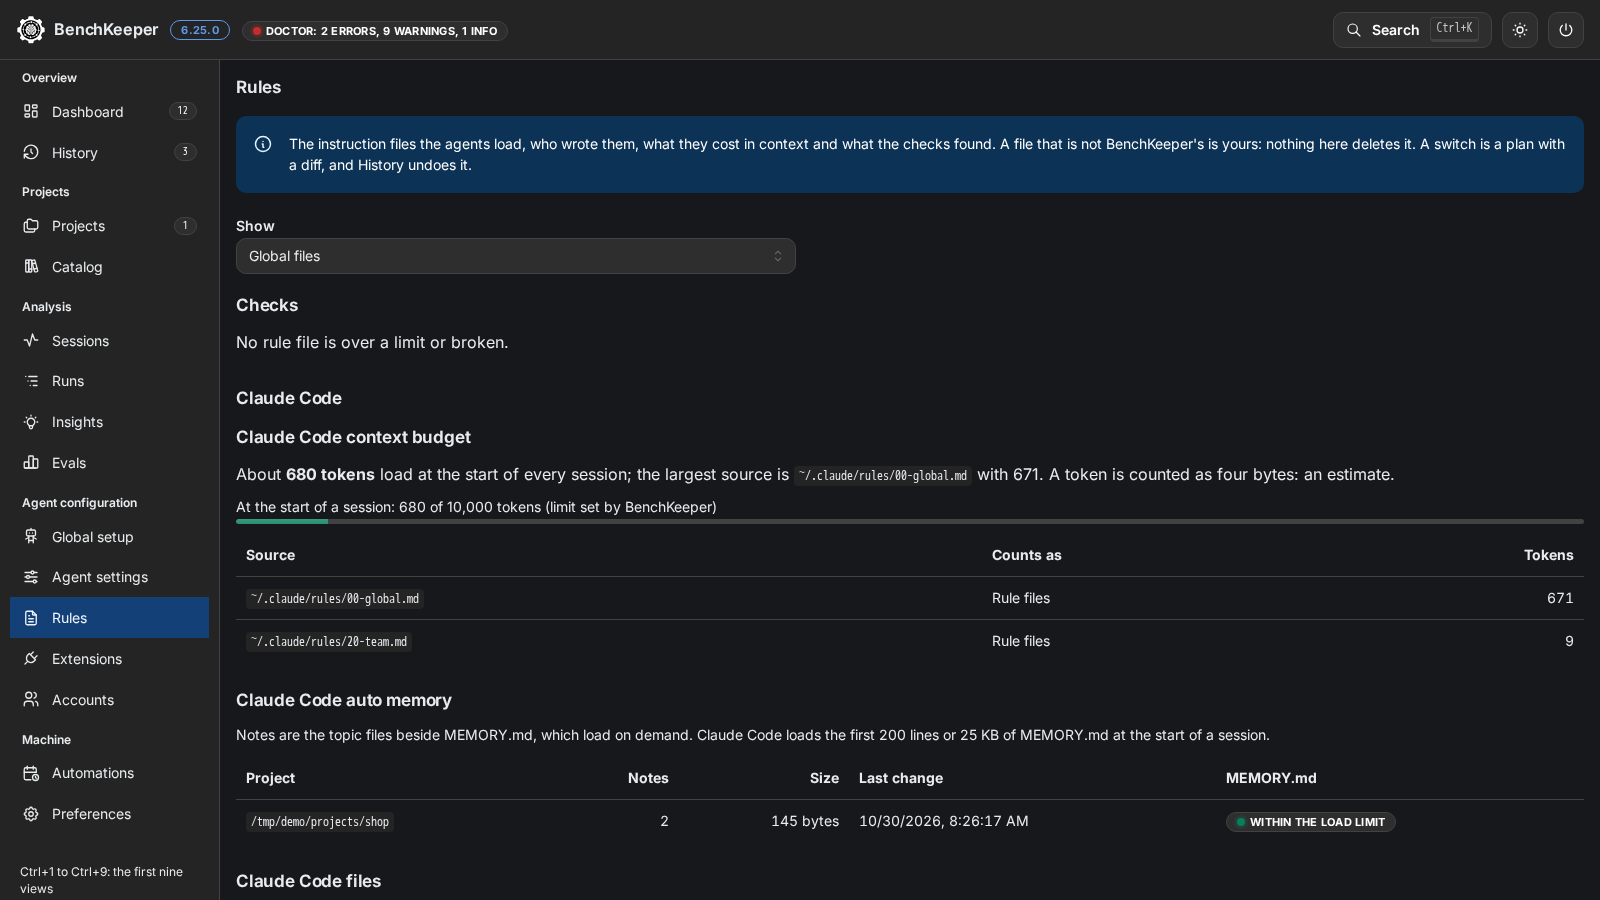
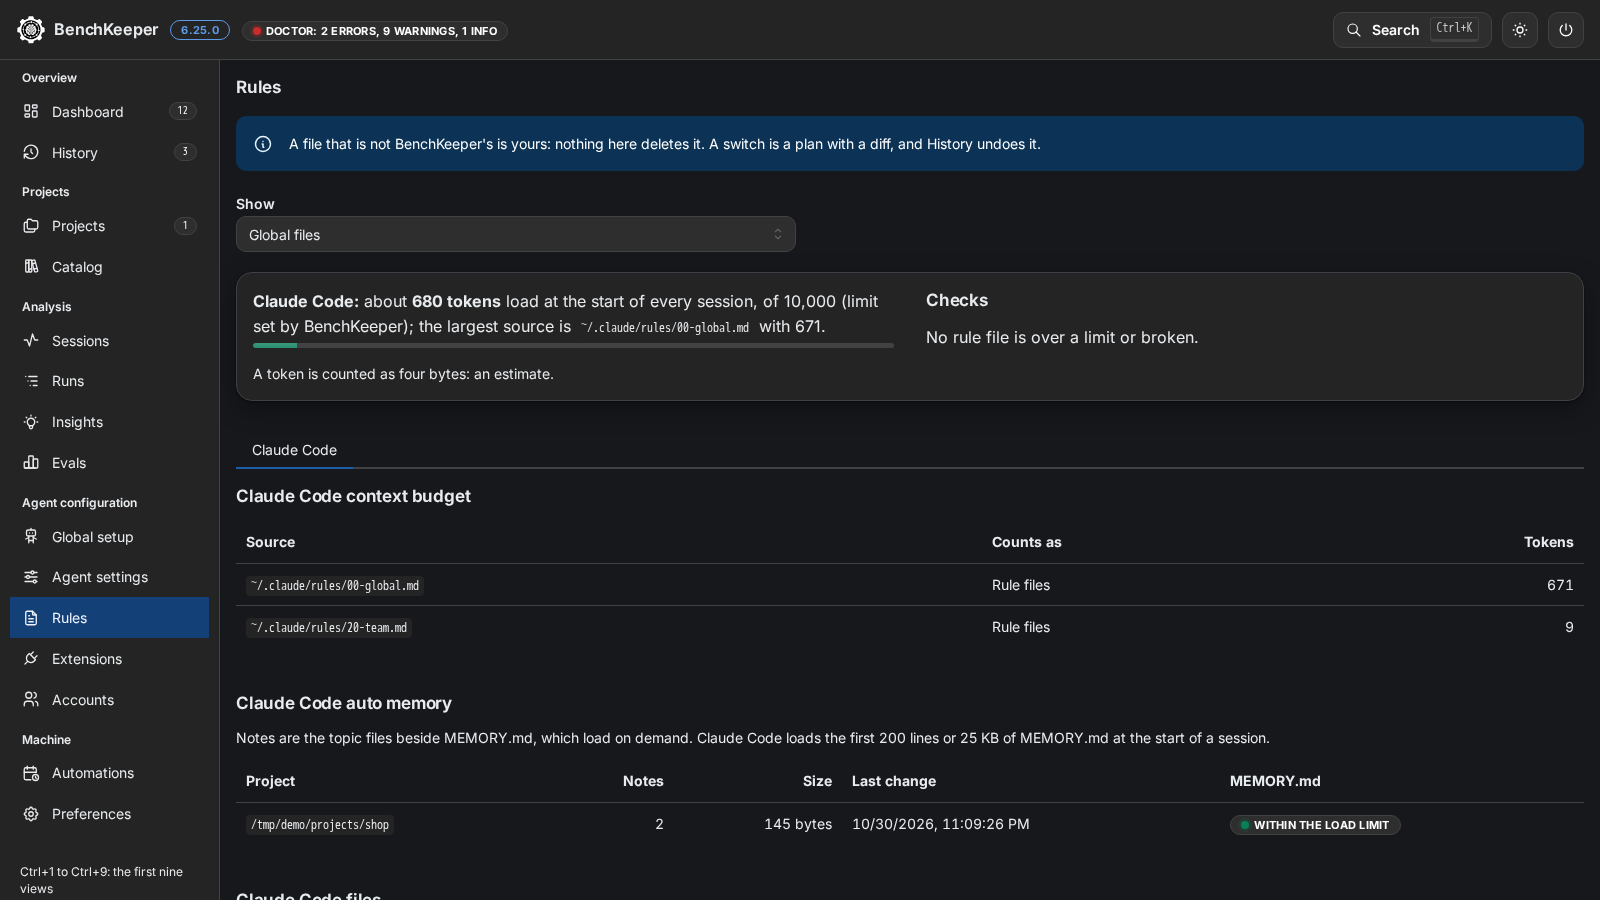
feat(app): show a summary strip and one tab per agent in Rules (#840)
* feat(app): show a summary strip and one tab per agent in Rules

The budget bar, the largest source and the checks of each agent sit in one strip at the top; Claude Code and Codex each get a tab with the context budget per source, the auto memory and the files. The banner keeps its two sentences on ownership and undo.

Refs #805

* test(app): add the 390 px screenshots for review

* test(app): remove the 390 px review screenshots

* test(app): check the Codex bar value and the Claude Code largest source in the Rules strip test

Refs #805

* test(app): give the Codex tab its own file row and check axe on the first tab in the Rules strip test

Refs #805

* test(app): give the Codex fixture its own agent id and budget sources in the Rules strip test

Refs #805

diff --git a/app/ui/rules.jsx b/app/ui/rules.jsx
@@ -1,4 +1,4 @@
-import { Badge, Button, Code, Drawer, Group, List, Progress, Select, Stack, Table, Text, Textarea, Title } from '@mantine/core';
+import { Badge, Button, Code, Drawer, Group, List, Paper, Progress, Select, SimpleGrid, Stack, Table, Tabs, Text, Textarea, Title } from '@mantine/core';
 import { IconEye, IconPencil, IconPlayerStop } from '@tabler/icons-react';
 import { useEffect, useRef, useState } from 'react';
 import { api } from './api.js';
@@ -139,14 +139,33 @@ function Preview({ row, dir, onClose, onSaved }) {
   );
 }
 
+// The top strip: per agent what loads at the start of every session against BenchKeeper's limit and the largest source,
+// beside the checks on a wide screen.
+const Summary = ({ agents, children }) => (
+  <Paper withBorder p="md" component="section" aria-label="Summary">
+    <SimpleGrid cols={{ base: 1, lg: 2 }} spacing="xl">
+      <Stack gap="md">
+        {agents.map(({ id, name, budget: { total, largest, over, threshold, limits: [start] } }) => (
+          <Stack key={id} gap={4}>
+            <Text><Text span fw={700}>{name}:</Text> about <Text span fw={700}>{number(total)} tokens</Text> load at the start of every session, of {number(start.max)} (limit set by {start.by}){largest ? <>; the largest source is <Code>{largest.label}</Code> with {number(largest.tokens)}</> : null}.</Text>
+            <Limit {...start} />
+            {over && <Note color="yellow">More than {number(threshold)} tokens (BenchKeeper's own limit, not the agent's): every turn pays for them. Turn off a file, split a long one into path-scoped rules, or shorten the largest source.</Note>}
+          </Stack>
+        ))}
+        <Text size="sm">A token is counted as four bytes: an estimate.</Text>
+      </Stack>
+      {children}
+    </SimpleGrid>
+  </Paper>
+);
+
+// The rest of an agent's budget: the other limits, what loads on demand and the tokens per source.
 function Budget({ budget }) {
   return (
     <Stack gap="xs">
-      <Text>About <Text span fw={700}>{number(budget.total)} tokens</Text> load at the start of every session{budget.largest ? <>; the largest source is <Code>{budget.largest.label}</Code> with {number(budget.largest.tokens)}</> : null}. A token is counted as four bytes: an estimate.</Text>
-      {budget.over && <Note color="yellow">More than {number(budget.threshold)} tokens (BenchKeeper's own limit, not the agent's): every turn pays for them. Turn off a file, split a long one into path-scoped rules, or shorten the largest source.</Note>}
       {budget.onDemand > 0 && <Text size="sm">About {number(budget.onDemand)} more tokens of path-scoped rules load only when matching files are used.</Text>}
       {budget.notes.map((n) => <Note key={n} color="yellow">{n}</Note>)}
-      {budget.limits.map((l) => (
+      {budget.limits.slice(1).map((l) => (
         <Stack key={l.label} gap={2}>
           <Text size="sm">{l.label}: {number(l.value)} of {number(l.max)} {l.unit} (limit set by {l.by})</Text>
           <Limit {...l} />
@@ -238,29 +257,35 @@ export function Rules({ overview, params, refresh, project }) {
   const onPlan = (p) => { if (p.dir === shown.current && idle()) setPending(p); };
   return (
     <Stack gap="lg">
-      <Note>The instruction files the agents load, who wrote them, what they cost in context and what the checks found. A file that is not BenchKeeper's is yours: nothing here deletes it. A switch is a plan with a diff, and History undoes it.</Note>
+      <Note>A file that is not BenchKeeper's is yours: nothing here deletes it. A switch is a plan with a diff, and History undoes it.</Note>
       {!project && <Select label="Show" data={[{ value: GLOBAL, label: 'Global files' }, ...projects.map((p) => ({ value: p.path, label: p.name ? `${p.name} (${p.path})` : p.path }))]} value={dir} onChange={choose} readOnly={running} aria-disabled={running || undefined} allowDeselect={false} comboboxProps={{ withinPortal: false }} maw={560} />}
       <Loading state={state} label="instruction files">
         {(data) => (
           <Stack gap="xl">
-            <Section title="Checks"><Findings findings={data.findings} dir={chosen} onPlan={onPlan} locked={running} /></Section>
-            {data.agents.map((a) => (
-              <Stack key={a.id} gap="md">
-                <Title order={2} size="h3">{a.name}</Title>
-                <Section title={`${a.name} context budget`}><Budget budget={a.budget} /></Section>
-                {a.memory?.folders.length > 0 && (
-                  <Section title={`${a.name} auto memory`}>
-                    <Text size="sm">{a.memory.folders.some((m) => m.enabled)
-                      ? `Notes are the topic files beside MEMORY.md, which load on demand. Claude Code loads the first ${a.memory.lines} lines or ${a.memory.bytes / 1024} KB of MEMORY.md at the start of a session.${a.memory.folders.every((m) => m.enabled) ? '' : ' Auto memory is off for the rows marked not loaded (autoMemoryEnabled is false in the settings that apply there).'}`
-                      : 'Auto memory is off (autoMemoryEnabled is false): Claude Code loads neither MEMORY.md nor the notes beside it. They stay on disk.'}</Text>
-                    <Memory memory={a.memory} />
-                  </Section>
-                )}
-                <Section title={`${a.name} files${chosen ? ' for this project' : ''}`}>
-                  <Files agent={a} dir={chosen} limit={data.limit} onPlan={onPlan} onPreview={setPreview} pending={pending && !pending.done ? pending : null} onClear={() => setPending(null)} locked={running} />
-                </Section>
-              </Stack>
-            ))}
+            <Summary agents={data.agents}><Section title="Checks"><Findings findings={data.findings} dir={chosen} onPlan={onPlan} locked={running} /></Section></Summary>
+            {data.agents.length > 0 && (
+              <Tabs defaultValue={data.agents[0].id}>
+                <Tabs.List aria-label="Agents">{data.agents.map((a) => <Tabs.Tab key={a.id} value={a.id}>{a.name}</Tabs.Tab>)}</Tabs.List>
+                {data.agents.map((a) => (
+                  <Tabs.Panel key={a.id} value={a.id} pt="md">
+                    <Stack gap="xl">
+                      <Section title={`${a.name} context budget`}><Budget budget={a.budget} /></Section>
+                      {a.memory?.folders.length > 0 && (
+                        <Section title={`${a.name} auto memory`}>
+                          <Text size="sm">{a.memory.folders.some((m) => m.enabled)
+                            ? `Notes are the topic files beside MEMORY.md, which load on demand. Claude Code loads the first ${a.memory.lines} lines or ${a.memory.bytes / 1024} KB of MEMORY.md at the start of a session.${a.memory.folders.every((m) => m.enabled) ? '' : ' Auto memory is off for the rows marked not loaded (autoMemoryEnabled is false in the settings that apply there).'}`
+                            : 'Auto memory is off (autoMemoryEnabled is false): Claude Code loads neither MEMORY.md nor the notes beside it. They stay on disk.'}</Text>
+                          <Memory memory={a.memory} />
+                        </Section>
+                      )}
+                      <Section title={`${a.name} files${chosen ? ' for this project' : ''}`}>
+                        <Files agent={a} dir={chosen} limit={data.limit} onPlan={onPlan} onPreview={setPreview} pending={pending && !pending.done ? pending : null} onClear={() => setPending(null)} locked={running} />
+                      </Section>
+                    </Stack>
+                  </Tabs.Panel>
+                ))}
+              </Tabs>
+            )}
           </Stack>
         )}
       </Loading>

diff --git a/web/src/components/AppPage.tsx b/web/src/components/AppPage.tsx
@@ -118,9 +118,9 @@ export const VIEWS: { id: string; view: string; title: string; shot: string; alt
   },
   {
     id: 'rules', view: 'rules', title: 'Rules', shot: 'rules',
-    alt: 'The Rules view: the Claude Code context budget in tokens per source, then the auto memory per project with its number of notes, size, last change and whether MEMORY.md is within the load limit.',
+    alt: 'The Rules view: a summary strip with the tokens Claude Code loads at the start of a session against the limit, its largest source and the checks, then the Claude Code tab with the context budget per source and the auto memory per project with its number of notes, size, last change and whether MEMORY.md is within the load limit.',
     text: [
-      'The instruction files Claude Code and Codex load, in load order, with owner (BenchKeeper, project or yours), size and whether each loads. The context budget sums the tokens that load at the start of every session, counted as four bytes per token.',
+      'A strip at the top shows, per agent, the tokens that load at the start of every session against the limit, counted as four bytes per token, the largest source and the checks. Below it, Claude Code and Codex each have a tab with the instruction files they load, in load order, with owner (BenchKeeper, project or yours), size and whether each loads, and the context budget per source.',
       'Claude Code\'s auto memory shows per project in numbers only: topic notes, total size, last change and whether MEMORY.md is over what loads. The notes stay unread, and where auto memory is off the row says so.',
       'A file that is not BenchKeeper\'s has a switch; nothing here deletes it. A switch is a plan with a diff, and History undoes it.',
     ],
